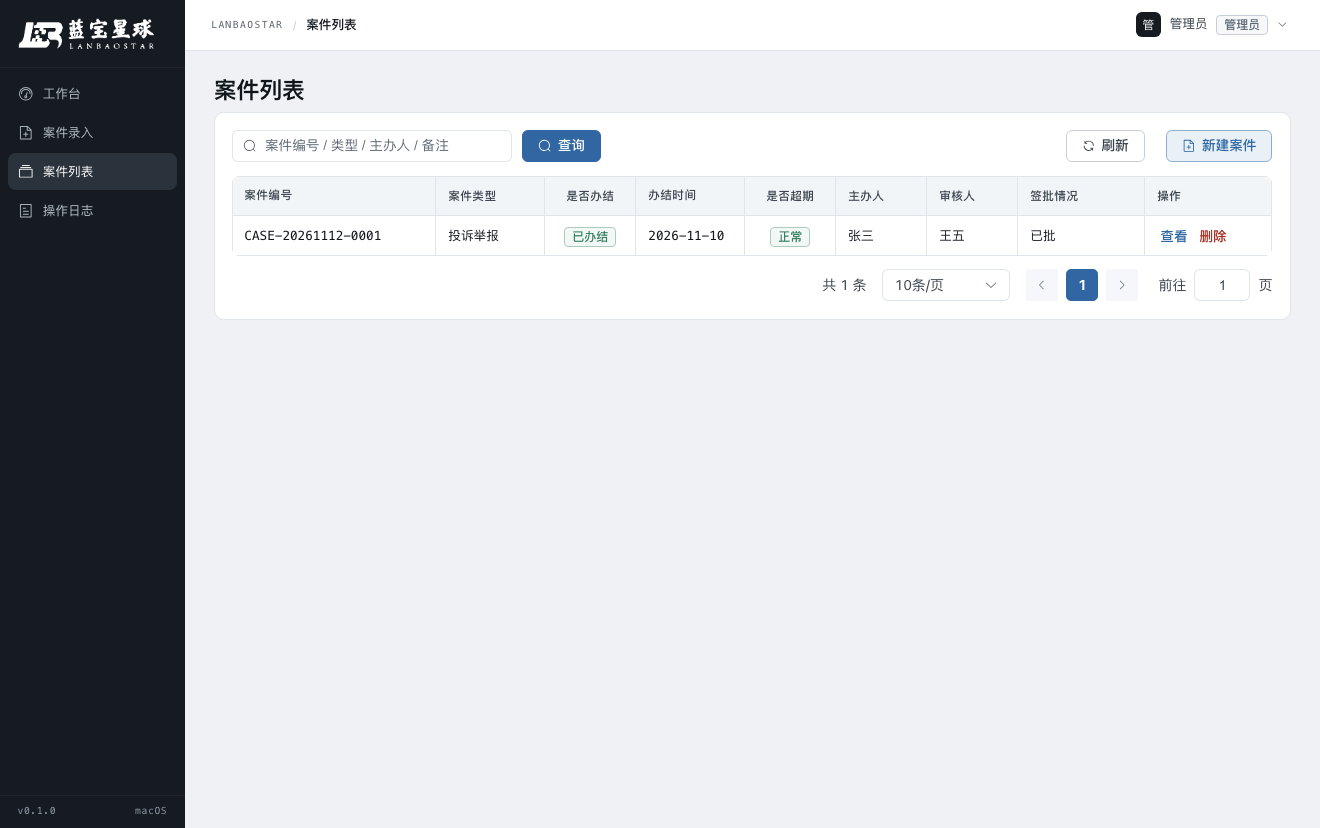
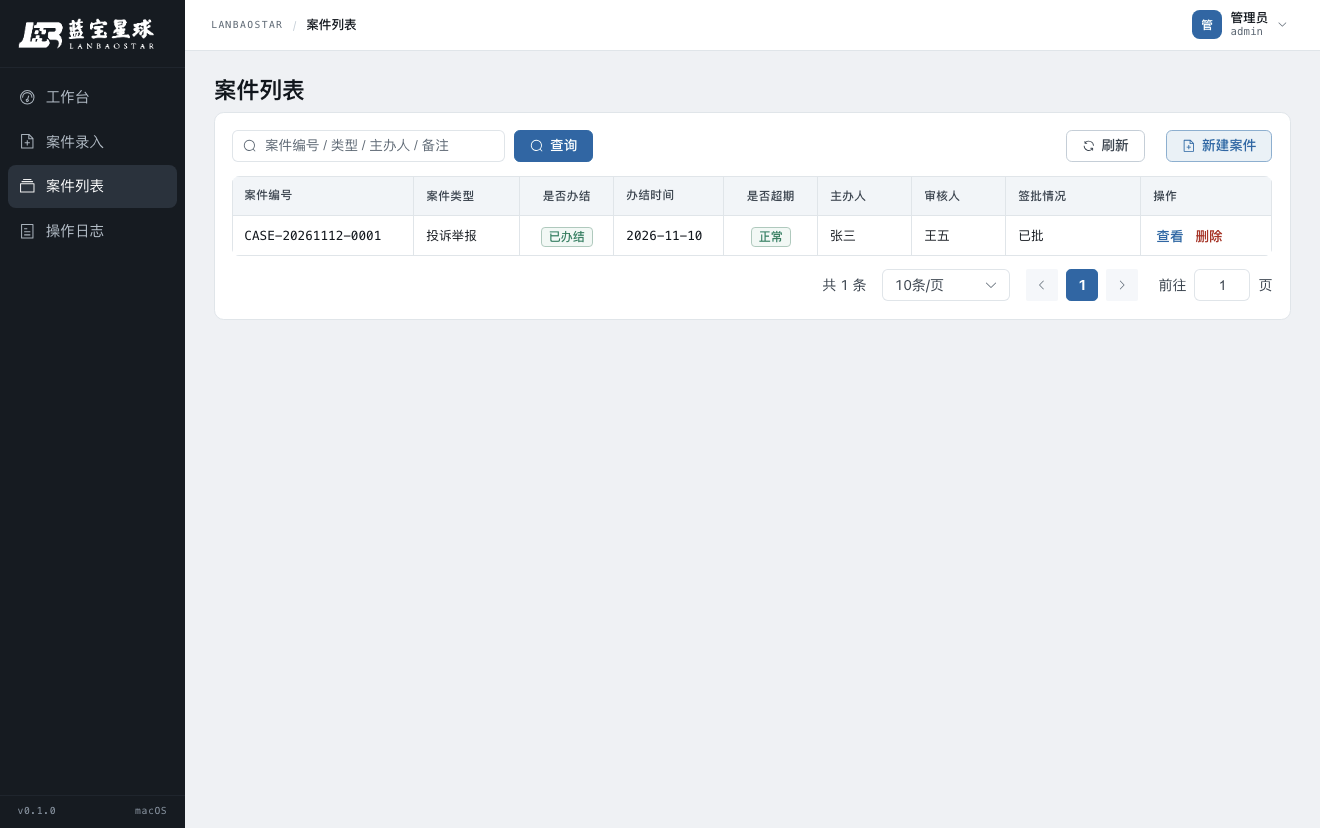
fix: 表格列宽被 parseInt 压成 10px；标题粒子更散
- Element Plus 的 width/min-width 会 parseInt，'10.5rem' -> 10px，导致所有列被压成一条缝；改回数字 px（表格是唯一允许固定值的层）
- 顺手修掉 LogsView 的 min-min-width 拼写错误
- 标题字号放大到 clamp(2rem,2.4vw+1.2rem,3rem)，粒子振幅 0.7-1.8px，8% 粒子给到 3-8px 做游离感
- 重出 dmg / win zip

diff --git a/src/renderer/src/views/CaseListView.vue b/src/renderer/src/views/CaseListView.vue
@@ -16,35 +16,35 @@
       </div>
 
       <el-table v-loading="loading" :data="rows" border stripe>
-        <el-table-column prop="case_no" label="案件编号" min-width="11rem" class-name="cell-mono" />
-        <el-table-column prop="case_type" label="案件类型" min-width="6rem" />
-        <el-table-column label="是否办结" min-width="5.5rem" align="center">
+        <el-table-column prop="case_no" label="案件编号" min-width="176" class-name="cell-mono" />
+        <el-table-column prop="case_type" label="案件类型" min-width="104" />
+        <el-table-column label="是否办结" min-width="92" align="center">
           <template #default="{ row }">
             <el-tag :type="row.is_closed ? 'success' : 'info'" effect="plain" size="small">
               {{ row.is_closed ? '已办结' : '未办结' }}
             </el-tag>
           </template>
         </el-table-column>
-        <el-table-column prop="closed_at" label="办结时间" min-width="6.5rem" class-name="cell-mono">
+        <el-table-column prop="closed_at" label="办结时间" min-width="108" class-name="cell-mono">
           <template #default="{ row }">{{ row.closed_at || '-' }}</template>
         </el-table-column>
-        <el-table-column label="是否超期" min-width="5.5rem" align="center">
+        <el-table-column label="是否超期" min-width="92" align="center">
           <template #default="{ row }">
             <el-tag :type="row.is_overdue ? 'danger' : 'success'" effect="plain" size="small">
               {{ row.is_overdue ? '超期' : '正常' }}
             </el-tag>
           </template>
         </el-table-column>
-        <el-table-column prop="owner" label="主办人" min-width="5.5rem">
+        <el-table-column prop="owner" label="主办人" min-width="92">
           <template #default="{ row }">{{ row.owner || '-' }}</template>
         </el-table-column>
-        <el-table-column prop="reviewer" label="审核人" min-width="5.5rem">
+        <el-table-column prop="reviewer" label="审核人" min-width="92">
           <template #default="{ row }">{{ row.reviewer || '-' }}</template>
         </el-table-column>
-        <el-table-column prop="approval_status" label="签批情况" min-width="7rem">
+        <el-table-column prop="approval_status" label="签批情况" min-width="132">
           <template #default="{ row }">{{ row.approval_status || '-' }}</template>
         </el-table-column>
-        <el-table-column label="操作" min-width="7.5rem" fixed="right" class-name="cell-actions">
+        <el-table-column label="操作" min-width="128" fixed="right" class-name="cell-actions">
           <template #default="{ row }">
             <el-button link type="primary" @click="openDetail(row)">查看</el-button>
             <el-button link type="danger" @click="remove(row)">删除</el-button>

diff --git a/src/renderer/src/views/LogsView.vue b/src/renderer/src/views/LogsView.vue
@@ -19,27 +19,27 @@
       </div>
 
       <el-table v-loading="loading" :data="rows" border stripe>
-        <el-table-column label="时间" min-width="10.5rem" class-name="cell-mono">
+        <el-table-column label="时间" min-width="168" class-name="cell-mono">
           <template #default="{ row }">{{ formatTime(row.created_at) }}</template>
         </el-table-column>
-        <el-table-column prop="username" label="用户" min-width="5.625rem">
+        <el-table-column prop="username" label="用户" min-width="88">
           <template #default="{ row }">{{ row.username || '-' }}</template>
         </el-table-column>
-        <el-table-column label="动作" min-width="8.75rem">
+        <el-table-column label="动作" min-width="136">
           <template #default="{ row }">
             <span class="action-text">{{ actionLabel(row.action) }}</span>
             <div class="action-code">{{ row.action }}</div>
           </template>
         </el-table-column>
-        <el-table-column label="对象" min-width="7.25rem" class-name="cell-mono">
+        <el-table-column label="对象" min-width="120" class-name="cell-mono">
           <template #default="{ row }">
             <span v-if="row.target_type">{{ row.target_type }}#{{ row.target_id }}</span>
             <span v-else>-</span>
           </template>
         </el-table-column>
-        <el-table-column prop="detail" label="详情" min-min-width="14.5rem" show-overflow-tooltip />
-        <el-table-column prop="machine" label="机器名" min-width="8.125rem" show-overflow-tooltip />
-        <el-table-column label="结果" min-width="5rem" align="center">
+        <el-table-column prop="detail" label="详情" min-width="240" show-overflow-tooltip />
+        <el-table-column prop="machine" label="机器名" min-width="132" show-overflow-tooltip />
+        <el-table-column label="结果" min-width="84" align="center">
           <template #default="{ row }">
             <el-tag :type="row.result === 'success' ? 'success' : 'danger'" effect="plain" size="small">
               {{ row.result === 'success' ? '成功' : '失败' }}

diff --git a/src/renderer/src/components/ParticleTitle.vue b/src/renderer/src/components/ParticleTitle.vue
@@ -27,7 +27,7 @@ const props = withDefaults(
     lines: string[]
     size?: string
   }>(),
-  { size: 'clamp(1.75rem, 2.6vw + 0.7rem, 2.75rem)' }
+  { size: 'clamp(2rem, 2.4vw + 1.2rem, 3rem)' }
 )
 
 const canvasRef = ref<HTMLCanvasElement>()
@@ -92,8 +92,8 @@ function sample(): void {
         hy: y / scale + (Math.random() - 0.5) * 0.9,
         x: x / scale,
         y: y / scale,
-        amp: 0.25 + Math.random() * 0.55,
-        speed: 0.5 + Math.random() * 0.9,
+        amp: Math.random() < 0.08 ? 3 + Math.random() * 5 : 0.7 + Math.random() * 1.1,
+        speed: 0.35 + Math.random() * 0.85,
         phase: Math.random() * Math.PI * 2,
         r: 0.5 + Math.random() * 0.4,
         tone: hue > 0.93 ? TONES[2] : hue > 0.6 ? TONES[1] : TONES[0]
@@ -117,8 +117,8 @@ function drawFrame(time: number): void {
   for (const grain of grains) {
     const tx = grain.hx + Math.sin(t * grain.speed + grain.phase) * grain.amp
     const ty = grain.hy + Math.cos(t * grain.speed * 0.8 + grain.phase) * grain.amp
-    grain.x += (tx - grain.x) * 0.22
-    grain.y += (ty - grain.y) * 0.22
+    grain.x += (tx - grain.x) * 0.12
+    grain.y += (ty - grain.y) * 0.12
     ctx.fillStyle = grain.tone
     ctx.beginPath()
     ctx.arc(grain.x, grain.y, grain.r, 0, Math.PI * 2)
@@ -153,7 +153,7 @@ onBeforeUnmount(() => {
 .particle-title {
   position: relative;
   display: inline-block;
-  padding: 0.5rem 1rem;
+  padding: 1.5rem 2.5rem;
 }
 
 .text {
@@ -175,7 +175,7 @@ onBeforeUnmount(() => {
 
 .canvas {
   position: absolute;
-  inset: 0.5rem 1rem;
+  inset: 1.5rem 2.5rem;
   pointer-events: none;
 }
 </style>

diff --git a/src/renderer/src/views/CaseFormView.vue b/src/renderer/src/views/CaseFormView.vue
@@ -137,16 +137,16 @@
         </div>
 
         <el-table :data="attachments" border stripe height="240" @selection-change="onSelectionChange">
-          <el-table-column type="selection" width="2.875rem" :selectable="() => true" />
-          <el-table-column prop="file_name" label="文件名" min-width="15rem" show-overflow-tooltip />
-          <el-table-column label="大小" min-width="6.875rem">
+          <el-table-column type="selection" width="46" :selectable="() => true" />
+          <el-table-column prop="file_name" label="文件名" min-width="260" show-overflow-tooltip />
+          <el-table-column label="大小" min-width="112">
             <template #default="{ row }">{{ formatSize(row.file_size) }}</template>
           </el-table-column>
-          <el-table-column prop="uploader" label="上传人" min-width="6.875rem" />
-          <el-table-column label="上传时间" min-width="10.62rem">
+          <el-table-column prop="uploader" label="上传人" min-width="112" />
+          <el-table-column label="上传时间" min-width="168">
             <template #default="{ row }">{{ formatTime(row.created_at) }}</template>
           </el-table-column>
-          <el-table-column label="操作" min-width="6.875rem" fixed="right">
+          <el-table-column label="操作" min-width="112" fixed="right">
             <template #default="{ row }">
               <el-button link type="danger" @click="removeOne(row)">删除</el-button>
             </template>

diff --git a/DESIGN.md b/DESIGN.md
@@ -65,6 +65,7 @@
 - 页面：`padding: 1.5rem clamp(1.25rem, 2.2vw, 2.25rem) 2.5rem`。
 - 工作台读数：`grid-template-columns: repeat(3, minmax(0,1fr)) minmax(0,1.1fr)`，整体随宽度等比拉伸。
 - 双栏面板：`minmax(0,1.5fr) minmax(0,1fr)`，间距 `1rem`。
+- 表格列宽是唯一允许写固定值的地方，而且必须写成数字（Element Plus 对 `width`/`min-width` 做 `parseInt`，传 `"10.5rem"` 会被解析成 10px，整张表被压成一条缝）；列宽不影响缩放，外层容器与栅格负责自适应。
 - 表单：`el-row`/`el-col` 百分比栅格，`label-width: 8rem`；附件表列宽用 `min-width` 的 rem 值，窄屏在卡片内横向滚动而不挤压文字。
 - 表情表：列宽全部 `min-width`，表格吃满容器宽度。
 
@@ -92,7 +93,7 @@
 三处，都有明确用途：
 
 1. 导航项与面板行在 160ms 内完成底色/颜色变化，行尾箭头 hover 右移 0.1875rem——回答「我在哪、能不能点」。
-2. 登录页标题「案件办理 / 桌面终端」本身就是粒子构成（`src/renderer/src/components/ParticleTitle.vue`）：把两行标题在离屏 canvas 上按真实字号绘制、逐像素采样（2px 步长），在采样点上生成粒子，粒子绕各自原点做 0.25–0.8px 的正弦浮动，字因此会「呼吸」但始终可读。真实文字保留在 DOM 里（`opacity: 0`），读屏与自动化仍能取到标题；采样与容器尺寸绑定，`ResizeObserver` 触发重采样，窗口缩放不会糊。标题在封面内水平、垂直居中，与右侧表单卡形成对称。
+2. 登录页标题「案件办理 / 桌面终端」本身就是粒子构成（`src/renderer/src/components/ParticleTitle.vue`）：把两行标题在离屏 canvas 上按真实字号（`clamp(2rem, 2.4vw + 1.2rem, 3rem)`）绘制、逐像素采样（2px 步长），在采样点上生成粒子，粒子绕各自原点做 0.7–1.8px 的正弦浮动（8% 的粒子给到 3–8px，负责「散」的观感），字因此会「呼吸」但始终可读。真实文字保留在 DOM 里（`opacity: 0`），读屏与自动化仍能取到标题；采样与容器尺寸绑定，`ResizeObserver` 触发重采样，窗口缩放不会糊。标题在封面内水平、垂直居中，与右侧表单卡形成对称。
 3. 封面背景的粒子星图（`src/renderer/src/components/ParticleField.vue`）：44 个缓慢漂移的点 + 140px 内的连边，用 canvas 绘制，点 `rgba(206,226,241,.62)`、线 `rgba(122,176,214)` 到 0.2 不透明度；密度与亮度都压在同层文字的对比之下，只做「港口夜航」的气氛，不与表单抢注意力。窗口尺寸变化时按 `ResizeObserver` 重算并乘 `devicePixelRatio`，且封面上所有内容都在粒子之上（`z-index: 1`）。
 4. 运行时 `prefers-reduced-motion: reduce` 时，前两处全部降为 0ms，两处粒子都只画静止的一帧。
 
